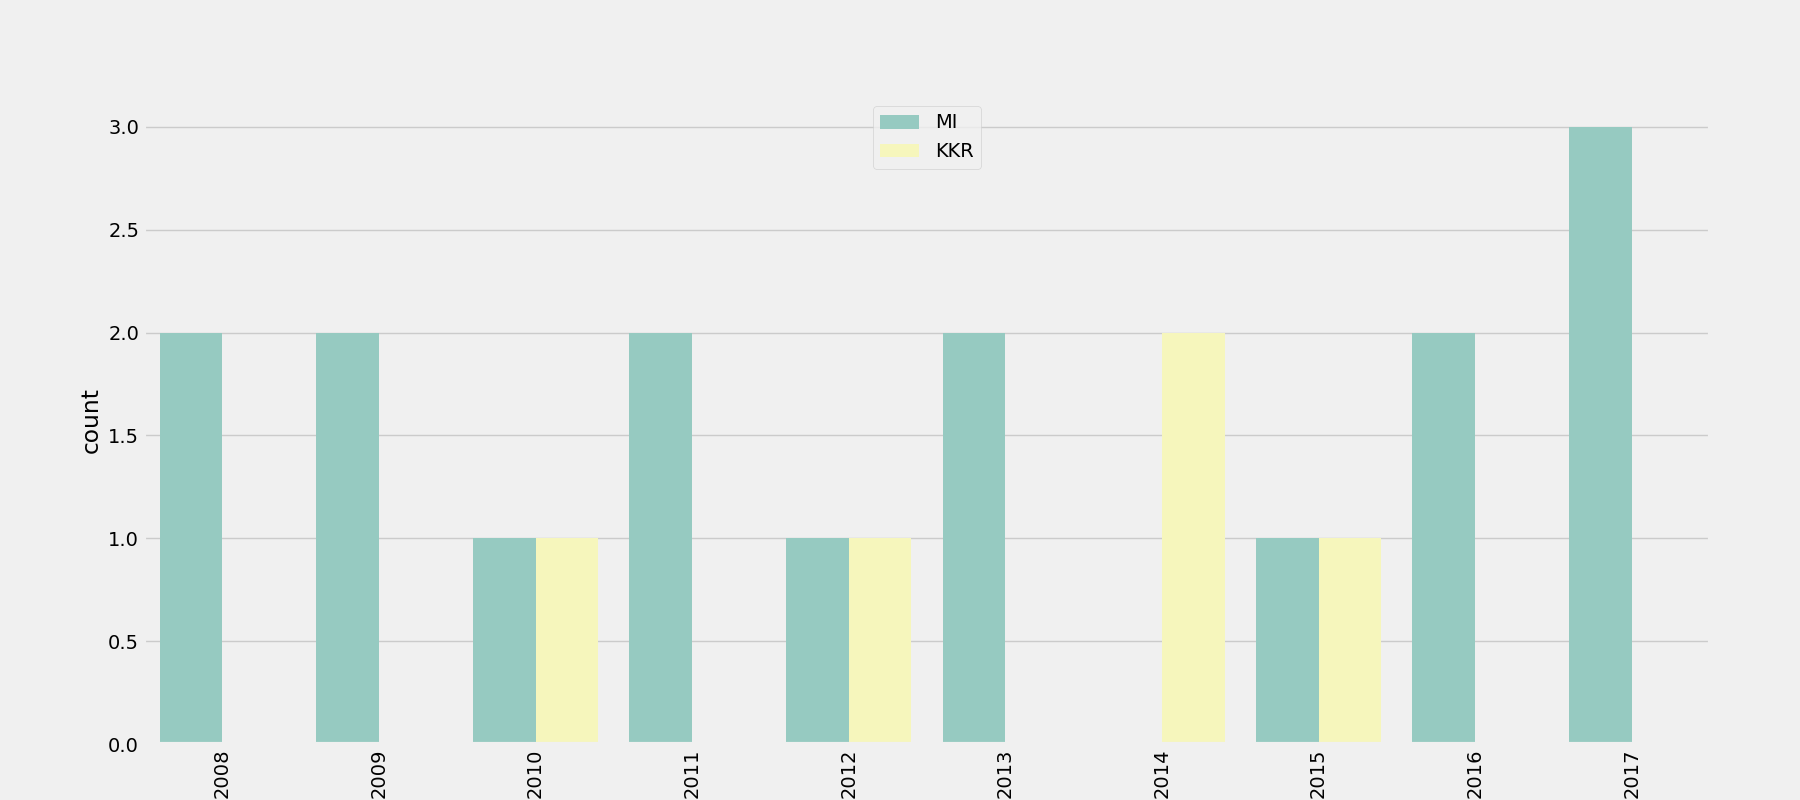
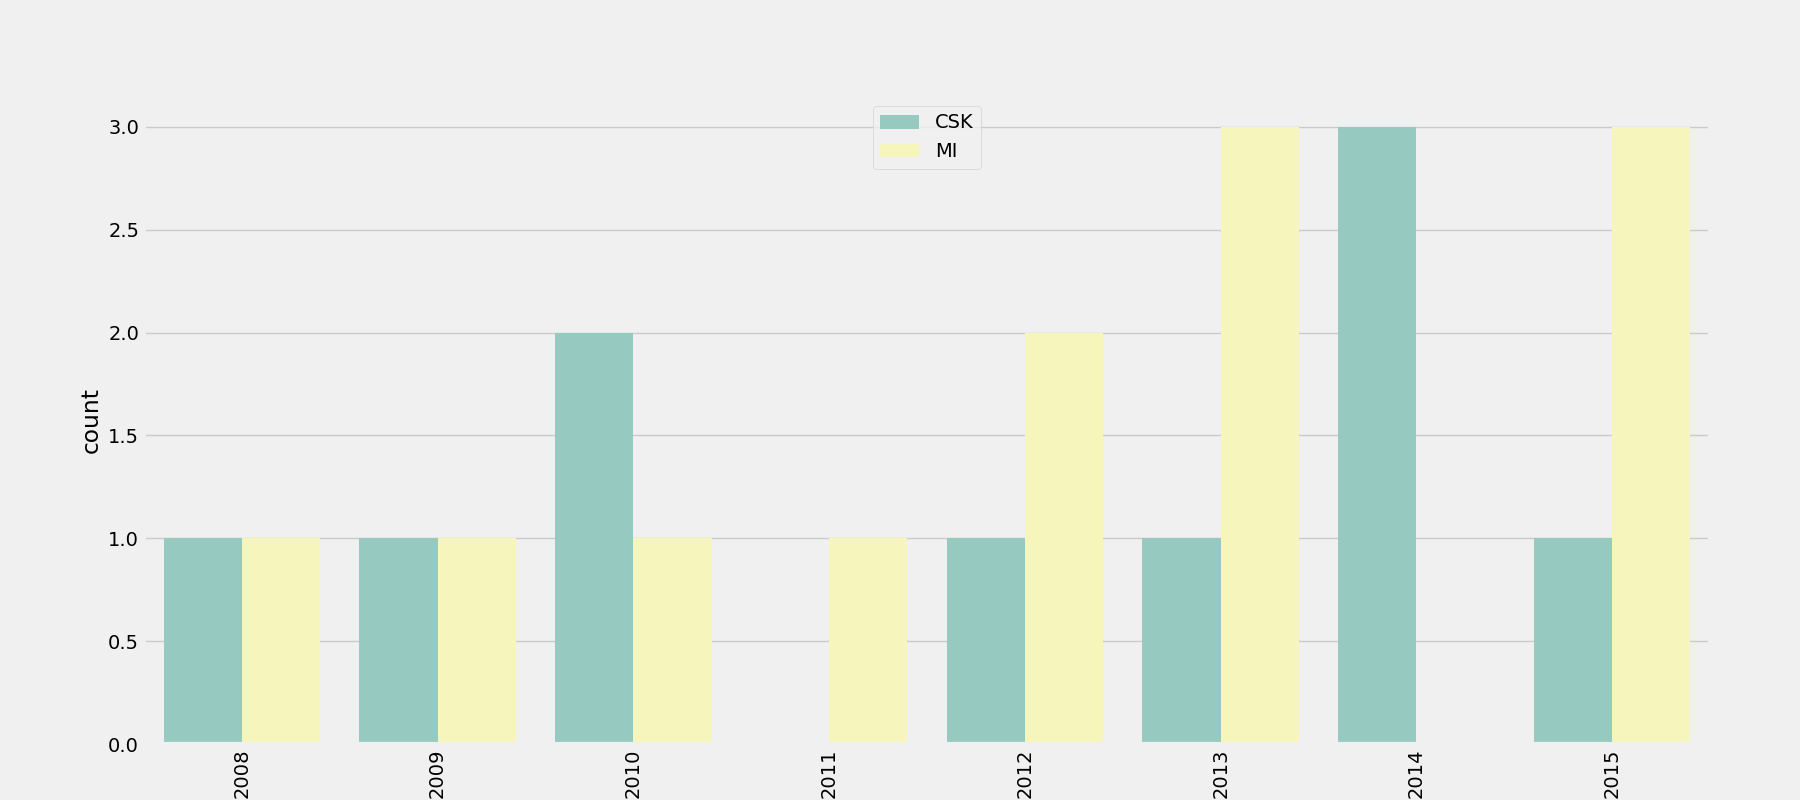
Completed IPL analytics

diff --git a/templates/ipl/dashboard.html b/templates/ipl/dashboard.html
@@ -37,13 +37,13 @@
                 <ul class="nav">
                     <li class="nav-item ">
                         <a class="nav-link" href="{% url 'index' %}">
-                            <i class="nc-icon nc-chart-pie-35"></i>
+
                             <p>Dashboard</p>
                         </a>
                     </li>
                     <li class="nav-item active">
                         <a class="nav-link" href="{% url 'ipl_index' %}">
-                            <i class="nc-icon nc-circle-09"></i>
+                            
                             <p>IPL Analytics</p>
                         </a>
                     </li>
@@ -117,8 +117,58 @@
                         <div class="col-md-12">
                             <div class="card" style="height: 100%;">
                                 <div class="card-header">
-                                    <h4 class="card-title">Team 1 vs Team 2</h4>
-                                    <p class="card-category">All statistics of both Team</p>
+                                    <div class="row">
+                                        <div class="col-md-6">
+                                            <h4 class="card-title">Team 1 vs Team 2</h4>
+                                            <p class="card-category">All statistics of both Team</p>
+                                        </div>
+                                        <div class="col-md-6">
+                                            
+                                            <form action="{% url 'get_team_stats' %}" method="POST">
+                                            {% csrf_token %}
+                                                <div class="row">
+                                                    <div class="col-md-4">
+                                                        <select name="team1" id="team1" class="custom-select">
+                                                            <option value="RCB">Royal Challengers Bangalore</option>
+                                                            <option value="MI">Mumbai Indians</option>
+                                                            <option value="KXIP">Kings XI Punjab</option>
+                                                            <option value="CSK">Chennai Super Kings</option>
+                                                            <option value="KKR">Kolkata Knight Riders</option>
+                                                            <option value="DC">Delhi Capitals</option>
+                                                            <option value="SRH">Sunrisers Hyderabad</option>
+                                                            <option value="RR">Rajasthan Royals</option>
+                                                            <option value="RSP">Rising Pune Supergiants</option>
+                                                            <option value="DD">Delhi Daredevils</option> 
+                                                            <option value="GL">Gujarat Lions</option>
+                                                            <option value="KTK">Kochi Tuskers Kerala</option>
+                                                            <option value="PW">Pune Warriors</option>
+                                                        </select>    
+                                                    </div>
+                                                    <div class="col-md-4">
+                                                        <select name="team2" id="team2" class="custom-select">
+                                                            <option value="RCB">Royal Challengers Bangalore</option>
+                                                            <option value="MI">Mumbai Indians</option>
+                                                            <option value="KXIP">Kings XI Punjab</option>
+                                                            <option value="CSK">Chennai Super Kings</option>
+                                                            <option value="KKR">Kolkata Knight Riders</option>
+                                                            <option value="DC">Delhi Capitals</option>
+                                                            <option value="SRH">Sunrisers Hyderabad</option>
+                                                            <option value="RR">Rajasthan Royals</option>
+                                                            <option value="RSP">Rising Pune Supergiants</option>
+                                                            <option value="DD">Delhi Daredevils</option> 
+                                                            <option value="GL">Gujarat Lions</option>
+                                                            <option value="KTK">Kochi Tuskers Kerala</option>
+                                                            <option value="PW">Pune Warriors</option>
+                                                        </select>
+                                                        
+                                                    </div>
+                                                    <div class="col-md-4">
+                                                        <input type="submit" class="btn btn-success mr-2 mb-2 mt-5" value="Select Team">
+                                                    </div>
+                                                </div>
+                                            </form>
+                                        </div>
+                                    </div>
                                 </div>
                                 <div class="card-body">
                                     <img src="{% static 'stats/ipl/team1_team2.png' %}" style="width: 100%; height: 100%;" alt="Team 1 vs Team 2">
@@ -127,6 +177,7 @@
                         </div>
                     </div>
                     <hr>
+                    
                     <div class="row">
                         <div class="col-md-12">
                             <div class="card" style="height: 100%;">
@@ -146,7 +197,7 @@
                             <div class="card" style="height: 100%;">
                                 <div class="card-header">
                                     <h4 class="card-title">Team Chasing</h4>
-                                    <p class="card-category">All statistics of team chasing</p>
+                                    <p class="card-category">All statistics of team chasing over 200+ score</p>
                                 </div>
                                 <div class="card-body">
                                     <img src="{% static 'stats/ipl/team_chasing.png' %}" style="width: 100%; height: 100%;" alt="Team Chasing">
@@ -167,85 +218,6 @@
             </footer>
         </div>
     </div>
-    <!--   -->
-    <!-- <div class="fixed-plugin">
-    <div class="dropdown show-dropdown">
-        <a href="#" data-toggle="dropdown">
-            <i class="fa fa-cog fa-2x"> </i>
-        </a>
-
-        <ul class="dropdown-menu">
-			<li class="header-title"> Sidebar Style</li>
-            <li class="adjustments-line">
-                <a href="javascript:void(0)" class="switch-trigger">
-                    <p>Background Image</p>
-                    <label class="switch">
-                        <input type="checkbox" data-toggle="switch" checked="" data-on-color="primary" data-off-color="primary"><span class="toggle"></span>
-                    </label>
-                    <div class="clearfix"></div>
-                </a>
-            </li>
-            <li class="adjustments-line">
-                <a href="javascript:void(0)" class="switch-trigger background-color">
-                    <p>Filters</p>
-                    <div class="pull-right">
-                        <span class="badge filter badge-black" data-color="black"></span>
-                        <span class="badge filter badge-azure" data-color="azure"></span>
-                        <span class="badge filter badge-green" data-color="green"></span>
-                        <span class="badge filter badge-orange" data-color="orange"></span>
-                        <span class="badge filter badge-red" data-color="red"></span>
-                        <span class="badge filter badge-purple active" data-color="purple"></span>
-                    </div>
-                    <div class="clearfix"></div>
-                </a>
-            </li>
-            <li class="header-title">Sidebar Images</li>
-
-            <li class="active">
-                <a class="img-holder switch-trigger" href="javascript:void(0)">
-                    <img src="../assets/img/sidebar-1.jpg" alt="" />
-                </a>
-            </li>
-            <li>
-                <a class="img-holder switch-trigger" href="javascript:void(0)">
-                    <img src="../assets/img/sidebar-3.jpg" alt="" />
-                </a>
-            </li>
-            <li>
-                <a class="img-holder switch-trigger" href="javascript:void(0)">
-                    <img src="..//assets/img/sidebar-4.jpg" alt="" />
-                </a>
-            </li>
-            <li>
-                <a class="img-holder switch-trigger" href="javascript:void(0)">
-                    <img src="../assets/img/sidebar-5.jpg" alt="" />
-                </a>
-            </li>
-
-            <li class="button-container">
-                <div class="">
-                    <a href="http://www.creative-tim.com/product/light-bootstrap-dashboard" target="_blank" class="btn btn-info btn-block btn-fill">Download, it's free!</a>
-                </div>
-            </li>
-
-            <li class="header-title pro-title text-center">Want more components?</li>
-
-            <li class="button-container">
-                <div class="">
-                    <a href="http://www.creative-tim.com/product/light-bootstrap-dashboard-pro" target="_blank" class="btn btn-warning btn-block btn-fill">Get The PRO Version!</a>
-                </div>
-            </li>
-
-            <li class="header-title" id="sharrreTitle">Thank you for sharing!</li>
-
-            <li class="button-container">
-				<button id="twitter" class="btn btn-social btn-outline btn-twitter btn-round sharrre"><i class="fa fa-twitter"></i> · 256</button>
-                <button id="facebook" class="btn btn-social btn-outline btn-facebook btn-round sharrre"><i class="fa fa-facebook-square"></i> · 426</button>
-            </li>
-        </ul>
-    </div>
-</div>
- -->
 </body>
 <!--   Core JS Files   -->
 <script src="{% static 'js/core/jquery.3.2.1.min.js' %}" type="text/javascript"></script>
@@ -264,11 +236,9 @@
 <!-- Light Bootstrap Dashboard DEMO methods, don't include it in your project! -->
 <script src="{% static 'js/demo.js' %}"></script>
 <script type="text/javascript">
-    $(document).ready(function() {
+    $(document).ready(() => {
         // Javascript method's body can be found in assets/js/demos.js
         demo.initDashboardPageCharts();
-
-
     });
 </script>
 

diff --git a/templates/dashboard.html b/templates/dashboard.html
@@ -22,7 +22,7 @@
 
 <body>
     <div class="wrapper">
-        <div class="sidebar" data-image=" {% static 'img/sidebar-5.jpg' %} ">
+        <div class="sidebar" data-color="blue"  data-image=" {% static 'img/sidebar-5.jpg' %} ">
             <!--
         Tip 1: You can change the color of the sidebar using: data-color="purple | blue | green | orange | red"
 
@@ -37,13 +37,13 @@
                 <ul class="nav">
                     <li class="nav-item active">
                         <a class="nav-link" href="{% url 'index' %}">
-                            <i class="nc-icon nc-chart-pie-35"></i>
+                            
                             <p>Dashboard</p>
                         </a>
                     </li>
                     <li>
                         <a class="nav-link" href="{% url 'ipl_index' %}">
-                            <i class="nc-icon nc-circle-09"></i>
+                            
                             <p>IPL Analytics</p>
                         </a>
                     </li>

diff --git a/analytics/views.py b/analytics/views.py
@@ -1,4 +1,5 @@
-from django.shortcuts import render, HttpResponse
+from django.shortcuts import render, HttpResponse, HttpResponseRedirect
+from django.http import JsonResponse
 from matplotlib import pylab
 from pylab import *
 import PIL, PIL.Image
@@ -188,13 +189,18 @@ def ipl_index(request):
     
     # toss_win_match_win(matches, delivery)
     toss_graph(matches, delivery)
-    team1_vs_team2('KKR','MI', matches)
     batting_bowling(delivery)
     team_chasing(delivery)
     top_batsmen(delivery)
     # top_batsmen_score(matches, delivery)
 
-    return render(request, 'ipl/dashboard.html', {})
+    teams =  ['MI','KKR','RCB','DC','CSK','RR','DD','GL','KXIP','SRH','RPS','KTK','PW','RPS']
+
+    context_data = {
+        'teams' : teams
+    }
+
+    return render(request, 'ipl/dashboard.html', context_data)
 
 
 def setTeam(request):
@@ -205,4 +211,31 @@ def setTeam(request):
         }
         return render(request, 'dashboard.html', context_data)
 
+def get_teams_stats(request):
 
+    team1 = request.POST.get('team1')
+    team2 = request.POST.get('team2')
+
+    matches_data = os.path.join(settings.BASE_DIR, 'data', 'matches.csv')
+    deliveries_data = os.path.join(settings.BASE_DIR, 'data', 'deliveries.csv')
+
+    matches = pd.read_csv(matches_data)   
+    delivery = pd.read_csv(deliveries_data)
+
+    matches.drop(['umpire3'], axis=1, inplace=True)
+    delivery.fillna(0,inplace=True)
+
+    matches.replace(['Mumbai Indians','Kolkata Knight Riders','Royal Challengers Bangalore','Deccan Chargers','Chennai Super Kings',
+                 'Rajasthan Royals','Delhi Daredevils','Gujarat Lions','Kings XI Punjab',
+                 'Sunrisers Hyderabad','Rising Pune Supergiants','Kochi Tuskers Kerala','Pune Warriors','Rising Pune Supergiant']
+                ,['MI','KKR','RCB','DC','CSK','RR','DD','GL','KXIP','SRH','RPS','KTK','PW','RPS'],inplace=True)
+
+    delivery.replace(['Mumbai Indians','Kolkata Knight Riders','Royal Challengers Bangalore','Deccan Chargers','Chennai Super Kings',
+                 'Rajasthan Royals','Delhi Daredevils','Gujarat Lions','Kings XI Punjab',
+                 'Sunrisers Hyderabad','Rising Pune Supergiants','Kochi Tuskers Kerala','Pune Warriors','Rising Pune Supergiant']
+                ,['MI','KKR','RCB','DC','CSK','RR','DD','GL','KXIP','SRH','RPS','KTK','PW','RPS'],inplace=True)
+    
+    team1_vs_team2(team1,team2, matches)
+
+    return HttpResponseRedirect('/ipl/')
+    

diff --git a/analytics/urls.py b/analytics/urls.py
@@ -1,9 +1,10 @@
 from django.urls import path
 
-from .views import index, setTeam, ipl_index
+from .views import index, setTeam, ipl_index, get_teams_stats
 
 urlpatterns = [
     path('', index, name="index"),
     path('setTeam/', setTeam, name="setTeam"),
-    path('ipl/', ipl_index, name="ipl_index")
+    path('ipl/', ipl_index, name="ipl_index"),
+    path('teamsstats/', get_teams_stats, name="get_team_stats")
 ]
